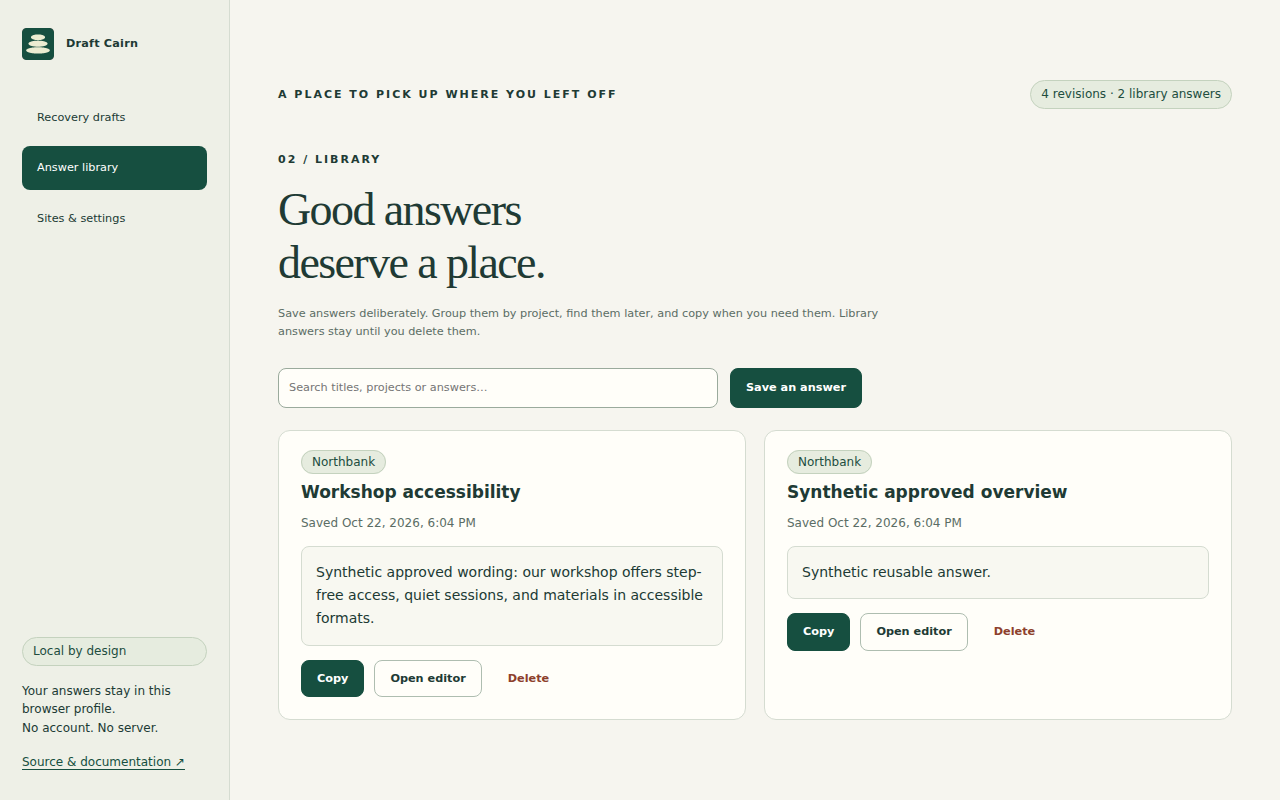
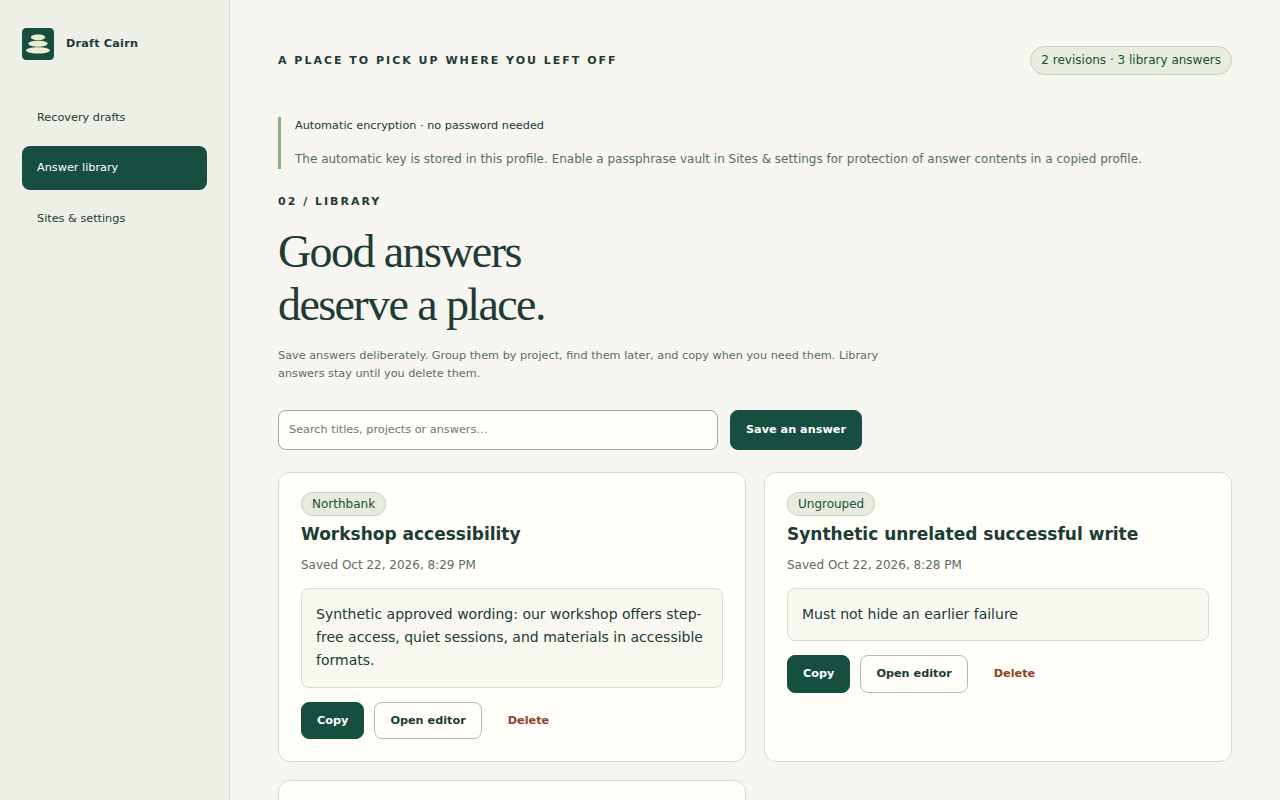
Prepare v0.2 store materials with measured vault validation and clean fixtures

diff --git a/docs/release-notes.md b/docs/release-notes.md
@@ -1,19 +1,21 @@
-Draft Cairn 0.1.2 — recovery reliability and local storage fixes.
+Draft Cairn 0.2.0 preview — optional passphrase vault and privacy controls.
 
-New saves evict the oldest recovery records when the 180-record or 6 MiB plaintext budget fills, with a visible eviction notice. Explicit library answers are never evicted; new library writes reserve room for recovery.
+Automatic encryption remains the password-free default. Users can opt into a passphrase vault: new drafts continue saving while locked, and reading, search, restoration and library changes require unlocking. A forgotten passphrase cannot be reset. Changing the passphrase or returning to automatic encryption preserves existing answers through atomic rekeying.
 
-Capture ignores synthetic input/paste events. Status follows the focused field and warns when an editable field is unsupported. Ordinary autocomplete=off forms and narrative labels such as “payment schedule” are supported, while specific credential/payment hints remain excluded.
+- The vault uses per-record AES-256-GCM with RSA-OAEP-3072 key wrapping. PBKDF2-SHA-256 protects the private key. Unlock survives worker suspension and clears on explicit lock or browser/extension session end.
+- The operational index uses a separate automatic key in the profile. The vault protects answer contents in copied files; it does not hide operational metadata from a profile holder or protect an actively compromised browser/device. See PRIVACY.md.
+- Fresh installations default to one-day recovery without page titles/field details. Existing choices are preserved. Minimal-metadata drafts are copy-only; enabling page details permits conservative direct restoration.
+- Optional session-only recovery keeps encrypted drafts in browser-session memory, with a smaller 2 MiB recovery budget. The persistent library remains. Chrome must fully exit to end its session; closing the last window can leave background Chrome running.
+- Block sites from the popup or exclude fields in the larger on-page editor. Manage exclusions in settings. Field exclusion deletes its recovery revisions; blocking a site keeps earlier drafts unless deleted.
+- Export a passphrase-encrypted library backup or explicitly choose readable JSON. Backup passwords are separate from the vault. Clipboard managers/history and exported copies remain outside lock and wipe controls.
+- Delete all is also available in the popup, including while locked. Persistent record/index/key updates are atomic. Migration supports old plaintext and v0.1.2 encrypted stores without duplicating a full dataset inside Chrome storage.local's quota.
 
-- Pending site choices survive popup closure; the worker completes them when access is granted and discards expired choices.
-- Content-script registrations remain in place when host patterns match and update in place when they change.
-- Persisted answers, metadata, and settings use AES-256-GCM with an automatic non-extractable key in extension-origin IndexedDB. Legacy plaintext migrates only after the encrypted commit succeeds. This is not a password-protected vault; profile/device control can still expose answers.
-- Saves write changed encrypted records and a small encrypted index. Failed index commits preserve earlier data and remove staged records.
-- Failure badges remain until acknowledged. Oversized captures have capture-specific error wording. Delete all removes encrypted records and the local key.
+Validation: 15 unit groups, 48 real Chromium integration scenarios, static/manifest/assets checks and reproducible packaging passed. Tests cover locked capture, real worker/browser restart, UI scrubbing, wrong passwords, exports, exclusions, legacy upgrades and failed near-capacity migration rollback. See docs/validation.md and validation-results-0.2.0.json for evidence and limits. There has been no independent cryptographic/security audit.
 
-Validation includes Node/static checks, real Chromium integration, browser-process restart, failure injection, and deterministic packaging. Integration uses a temporary loopback host pre-grant and trusted keyboard paste with a browser-populated clipboard. See docs/validation.md for actual results and limitations. Native permission prompts/revocation, daily-use OS clipboard behavior, and two or three intended portals still require supervised synthetic-data checks.
+Native Chrome permission approval/denial/revocation, daily-use OS clipboard behavior and two or three intended portals still need supervised synthetic-data checks before store submission. Automated integration pre-grants localhost in a temporary test copy. The shipping manifest keeps all hosts optional.
 
-Download and extract the extension ZIP, verify it against SHA256SUMS, and load the extracted folder via Chrome's Developer mode / Load unpacked. Full source and policies are in the repository.
+Extract the extension ZIP, verify SHA256SUMS, and load its manifest folder using chrome://extensions → Developer mode → Load unpacked. The separate store kit contains the install ZIP, icon, images, listing copy and reviewer steps. Upload only the inner extension ZIP as the package.
 
-Limits: standard top-level textareas and long ordinary text inputs only; no rich text, frames, incognito, or custom/server-side length detection. Latest unsaved keystrokes can be lost. Query/fragment pages remain copy-only because different applications may share a path and differ only by parameters the extension does not retain. Chrome grants host access across ports; capture separately checks the exact enabled origin. Keep a separate copy of important work.
+Limits: standard top-level textareas and long ordinary text inputs; no rich text, frames or incognito. Unsupported fields visibly warn. Latest unsaved keystrokes may be lost. Direct restoration is empty-field-only, unique-match-only, and unavailable for query/fragment pages or drafts without field details. Keep a separate copy of important work.
 
-This release has not been submitted to the Chrome Web Store. No paid service or fee has been activated.
+This release has not been submitted to the Chrome Web Store. No paid service, registration or fee has been activated.

diff --git a/docs/validation.md b/docs/validation.md
@@ -2,6 +2,18 @@
 
 22 October 2026 · synthetic fixtures only
 
+## 0.2.0 vault/privacy coverage
+
+**15 Node test groups and 48 Chromium scenarios passed** on runtime commit `383687cf7ab5d49e28fd438331032b8dfd9f83f7`. [Passing runtime run](https://github.com/librerob/draft-cairn/actions/runs/39849421888) · [machine-readable scenarios](validation-results-0.2.0.json). Browser: Chromium 151.0.7922.34 on Ubuntu 24.04. Static, manifest, assets and deterministic packaging checks passed in the same run.
+
+The new scenarios exercise real UI vault setup and encrypted backup import/export, incorrect passwords, locked capture, explicit lock scrubbing, changed passphrases, worker termination/restart while unlocked, complete browser process restart, session-only draft loss with library persistence, return to automatic encryption, trusted field exclusion across reload, site blocking, both legacy migrations, and injected transaction abort during a near-capacity vault migration. A failed migration preserves the prior records, index and automatic key. A successful conversion fits more than 5 MiB of plaintext without Chrome storage.local duplication. Locked conversion to session-only storage evicts oldest revisions to meet its smaller budget. Delete all works without unlocking.
+
+At 180 records and 5,533,199 plaintext bytes, the largest write for a new small draft was 84,653 bytes; observed end-to-end time was 420 ms including debounce and polling. This is one synthetic observation, not a performance guarantee. The operational index and answer records are encrypted separately. The index's automatic profile key is intentionally available while the answer vault is locked.
+
+Unit coverage includes large hybrid-encrypted payloads, fresh IV/key wrapping, wrong passwords, authenticated-label mismatch, tampering, passphrase changes, encrypted export validation, bounded import KDF costs, privacy defaults and text-free revision planning. There is no independent cryptographic audit.
+
+The test harness uses the shipped modules, with static test bindings and a localhost host pre-grant only in its temporary copy. It stores no real user data or browser traces. Permission prompts/revocation, daily-use OS clipboard, Windows/macOS native behavior, abrupt crashes and intended application portals remain manual gates. Documentation screenshots are synthetic fixtures from the actual UI. Earlier release results below are historical evidence.
+
 ## 0.1.2 review regression coverage
 
 **10 Node rule-test groups and 32 Chromium scenarios passed** on runtime commit `e96ab132f1c77f40c4747d20d424ba122cbe3e55`. [Passing run](https://github.com/librerob/draft-cairn/actions/runs/39839798197) · [machine-readable results](validation-results-0.1.2.json). Static/syntax, manifest, asset checks, and deterministic packaging passed too.
@@ -20,9 +32,9 @@ Verified on commit `370d004dddf9b170a06c1ab44ec26aac92cd1a43`: **8 unit groups a
 
[1 lines of base64/hex data omitted]
 
-## Local checks
+## Historical local checks
 
-Eight Node test groups pass: field exclusion, paste selection/UTF-16 arithmetic, conservative matching, revision/storage bounds, expiry, atomic import validation and hostile strings, and URL-origin handling. Static checks pass for JavaScript syntax, manifest permissions/incognito, runtime paths, safe text rendering, and absence of outbound request APIs. Reproducible packaging is checked by building twice and comparing SHA-256.
+The original eight Node test groups passed: field exclusion, paste selection/UTF-16 arithmetic, conservative matching, revision/storage bounds, expiry, atomic import validation and hostile strings, and URL-origin handling. Static checks pass for JavaScript syntax, manifest permissions/incognito, runtime paths, safe text rendering, and absence of outbound request APIs. Reproducible packaging is checked by building twice and comparing SHA-256.
 
 The Windows host has Chrome installed, but application-control policy blocked running the official downloaded Chrome for Testing binary. No policy was bypassed. Local real-extension browser integration and restart could not be verified here; GitHub Actions runs that suite on Linux Chromium instead.
 
@@ -37,7 +49,7 @@ The workflow uploads a compact result summary, synthetic screenshots, and the de
 ## Manual checks still required
 
 - The actual native optional host-permission prompt, denial, Chrome UI revocation, and the unmodified ZIP in a fresh daily-use Chrome profile.
-- OS clipboard paste/copy behavior (automated integration dispatches synthetic clipboard events), keyboard-only focus flow, screen-reader output, zoom/high contrast, and portal-specific interference.
+- OS clipboard paste/copy behavior (automated integration uses trusted keyboard paste with a browser-populated clipboard), keyboard-only focus flow, screen-reader output, zoom/high contrast, and portal-specific interference.
 - Hard crashes, abrupt device shutdown, true remote session expiry, framework-controlled forms, repeated client records at the same route, and compatibility on intended grant/application portals.
 - Independent privacy/security review; Windows/macOS native runtime coverage.
 

diff --git a/docs/compatibility.md b/docs/compatibility.md
@@ -19,3 +19,5 @@ Origin checks include ports. Chrome host permissions ignore ports, so the browse
 The 180-record/6 MiB recovery budget is rolling: oldest recovery records can be evicted before expiry, with a visible notice. Explicit library answers are not evicted. New library writes reserve space for recovery.
 
 Expiry is enforced on reads and cleanup attempts while Chrome runs, not while the browser is closed. Site deletion keeps explicitly saved library answers. Clearing extension data does not erase exports, OS clipboard history, browser-profile backups, or the website's own copies.
+
+Direct restoration also requires saving page titles and field details in settings before capture. New installations leave this off and use copy-only recovery. Enabling the option does not recreate descriptors for older drafts. Vault reading/restoration requires unlocking; capture can continue while locked.
